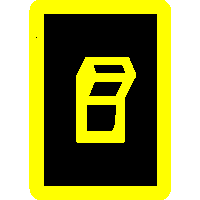
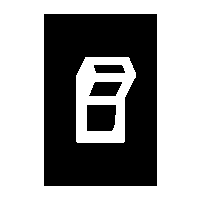
darkmode switch white all time

Changed region(s): [[0.12, 0.0, 0.87, 1.0], [0.36, 0.27, 0.69, 0.72]]

diff --git a/src/Components/Navbar/Navbar.jsx b/src/Components/Navbar/Navbar.jsx
@@ -26,24 +26,38 @@ const Navbar = () => {
     r.style.setProperty("--project-card-background", themeColors.lightProjectCard)
   }
 
-  if (darkMode) {
-    console.log("dark mode on")
-  } else {
-    console.log("dark mode off")
-  }
+  
 
   const handleDarkModeClick = () => {
     toggleDarkMode()
   }
 
   const handleHamburgerClick = () => {
+
     document.querySelector(".navbar-hamburger-links").style.display =
       (document.querySelector(".navbar-hamburger-links").style.display === "flex") ? "none" : "flex"
 
     document.getElementById("navbar-hamburger-button-image").className =
       (document.getElementById("navbar-hamburger-button-image").className === "navbar-hamburger-button-image-open")
-        ? "navbar-hamburger-button-image-close"
-        : "navbar-hamburger-button-image-open"
+      ? "navbar-hamburger-button-image-close"
+      : "navbar-hamburger-button-image-open"
+
+   /*  if (darkMode) {
+      document.getElementById("navbar-hamburger-button-image").className =
+        (document.getElementById("navbar-hamburger-button-image").className === "navbar-hamburger-button-image-open-darkmode")
+          ? "navbar-hamburger-button-image-close-darkmode"
+          : "navbar-hamburger-button-image-open-darkmode"
+
+      } else {
+        document.getElementById("navbar-hamburger-button-image").className =
+          (document.getElementById("navbar-hamburger-button-image").className === "navbar-hamburger-button-image-open")
+          ? "navbar-hamburger-button-image-close"
+          : "navbar-hamburger-button-image-open"
+    } */
+
+
+
+
   }
 
   /*   document.querySelector(".navbar-hamburger-button").addEventListener("click", handleHamburgerClick) */
@@ -96,7 +110,12 @@ const Navbar = () => {
 
       <div id="navbar-hamburger-menu">
         <div className="navbar-hamburger-button" onClick={handleHamburgerClick}>
-          <img alt="Menu button" className="navbar-hamburger-button-image-open" id="navbar-hamburger-button-image" />
+          <img alt="Menu button" className="navbar-hamburger-button-image-open"
+   /*           className={darkMode
+                ? "navbar-hamburger-button-image-open-darkmode"
+                : "navbar-hamburger-button-image-open"
+             }   */        
+              id="navbar-hamburger-button-image" />
         </div>
         <ul className="navbar-hamburger-links">
           <li>

diff --git a/src/Components/Navbar/navbar.css b/src/Components/Navbar/navbar.css
@@ -116,12 +116,26 @@
 .navbar-hamburger-button-image-open {
   content: url("../../../public/assets/images/buttons/menu-open.png");
   max-width:100%;
-  z-index: 0
+  z-index: 0;
+  color: red;
 }
 
 .navbar-hamburger-button-image-close {
   position: relative;
   content: url("../../../public/assets/images/buttons/menu-close.png");
+  max-width:100%;
+  z-index: 1
+}
+
+.navbar-hamburger-button-image-open-darkmode {
+  content: url("../../../public/assets/images/buttons/menu-open-darkmode.png");
+  max-width:100%;
+  z-index: 0
+}
+
+.navbar-hamburger-button-image-close-darkmode {
+  position: relative;
+  content: url("../../../public/assets/images/buttons/menu-close-darkmode.png");
   max-width:100%;
   z-index: 1
 }
